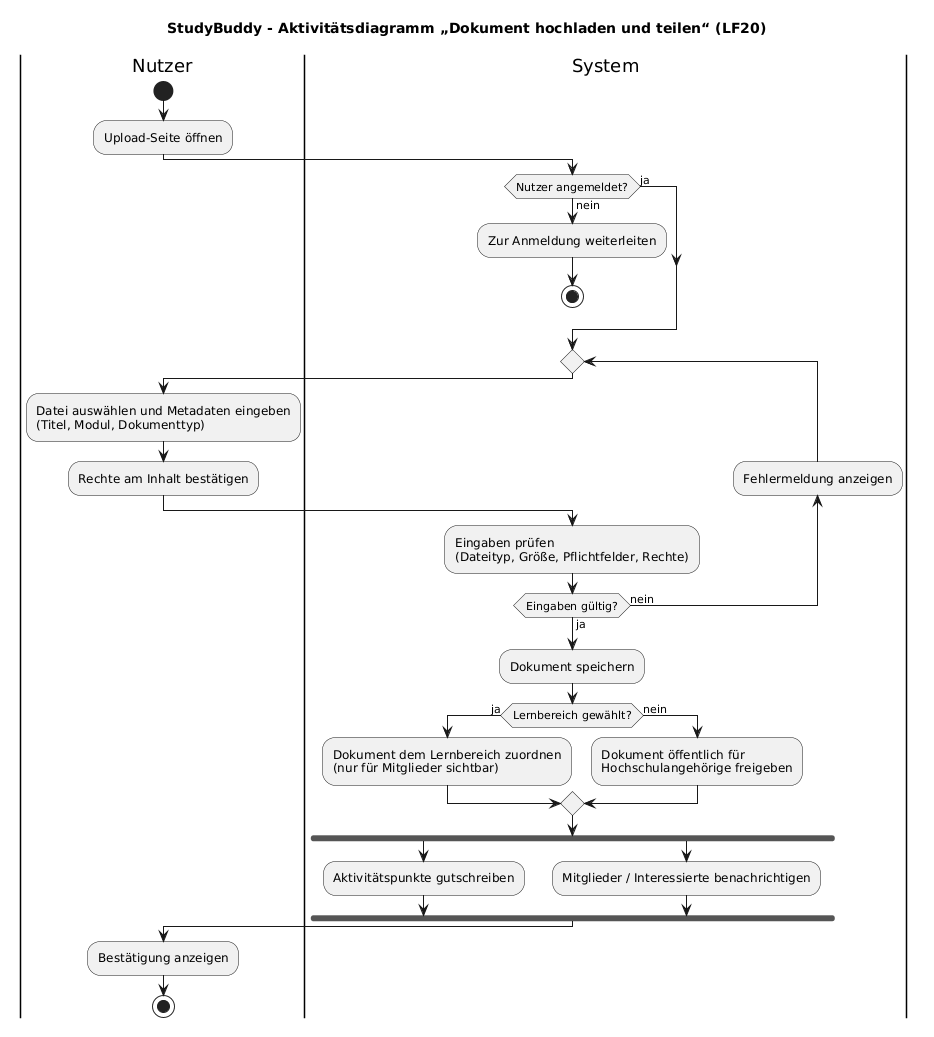
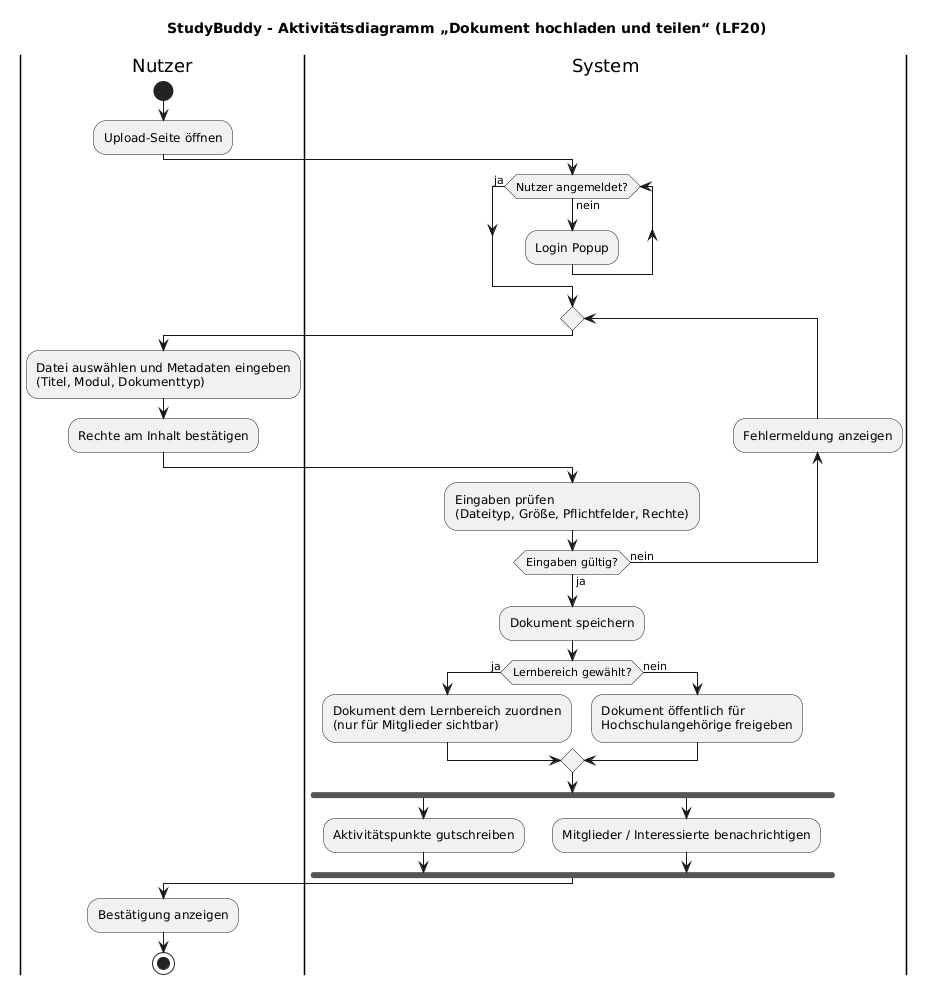
Diagramm "Dokument hochladen und teilen" angepasst Anmelde Fenster in schleife statt Weiterleitung zur Anmeldung

diff --git a/docs/aktivitaetsdiagramme-beschreibung.md b/docs/aktivitaetsdiagramme-beschreibung.md
@@ -9,7 +9,7 @@ Datei: `aktivitaetsdiagramm-dokument-hochladen.png`
   Ohne geteilte Unterlagen gibt es keine Fragen, keine Lernbereiche mit Inhalt & keine Aktivitätspunkte für den Avatar
 
 **Wichtigste Entscheidungspunkte:**
-- *Nutzer angemeldet?* – nur angemeldete Nutzer mit Hochschul-E-Mail dürfen hochladen, sonst Weiterleitung zur Anmeldung
+- *Nutzer angemeldet?* – nur angemeldete Nutzer mit Hochschul-E-Mail dürfen hochladen, sonst Anmelde Fester anzeigen und danach nochmal prüfen
 - *Eingaben gültig?* – geprüft werden Dateityp, Dateigröße, Pflichtfelder (Titel, Modul, Dokumenttyp) & die Bestätigung der Rechte am Inhalt (NF04)
 - *Lernbereich gewählt?* – entweder wird das Dokument einem geschützten Lernbereich zugeordnet (nur für Mitglieder sichtbar) oder für alle Hochschulangehörigen freigegeben
 
